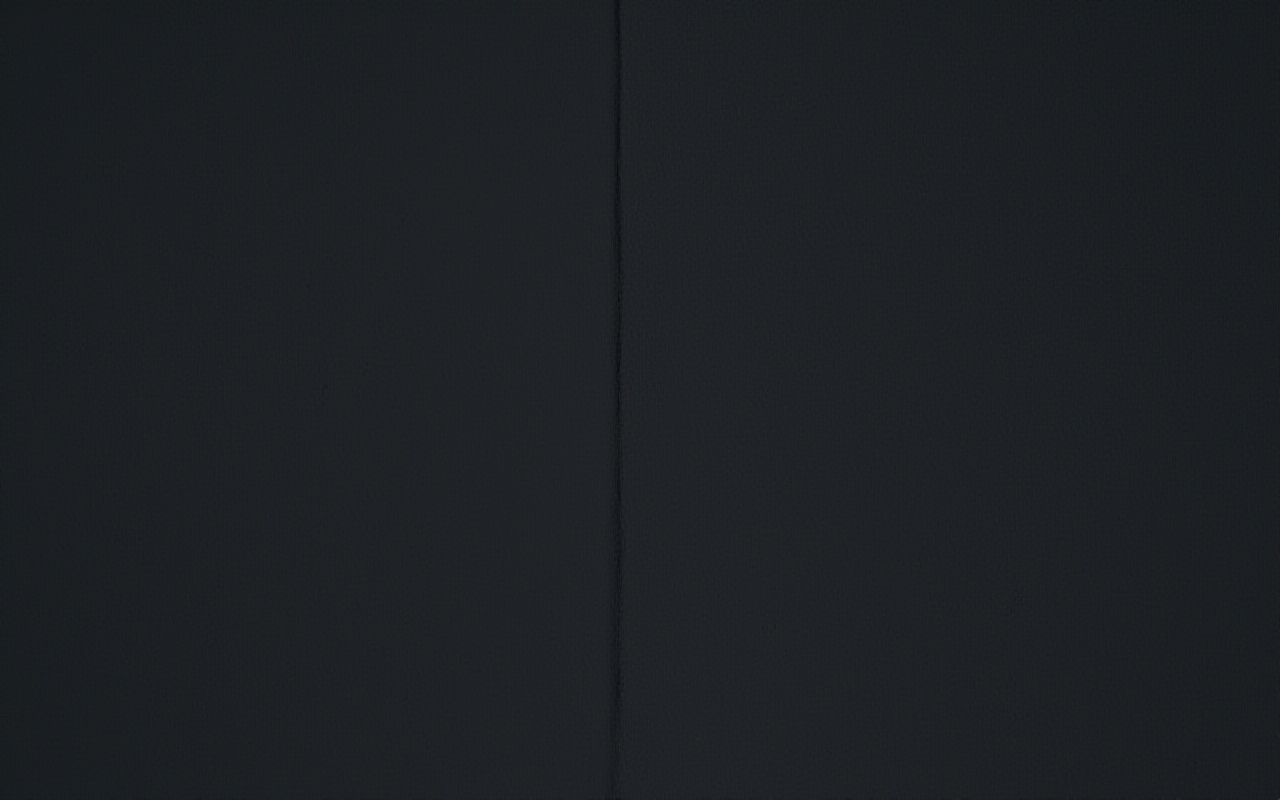
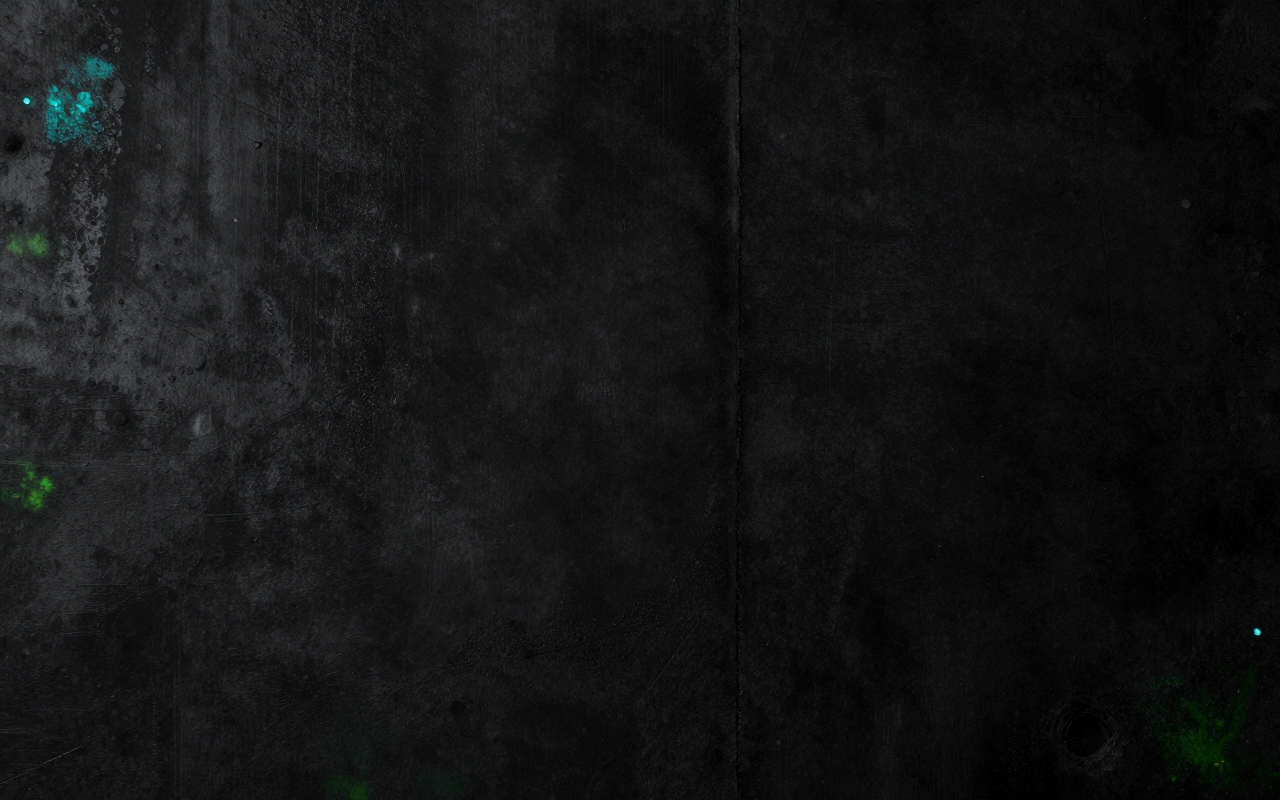
Improve theme material assets

diff --git a/Sources/Models.swift b/Sources/Models.swift
@@ -55,7 +55,7 @@ struct SeedStation: Decodable {
 
 // App-Version an einer Stelle. Wird auch in der Info.plist gespiegelt.
 enum AppInfo {
-    static let version = "1.7.31"
+    static let version = "1.7.32"
 }
 
 /// Verschiebt einmalig den alten Daten-Ordner „MacRadio" auf den neuen Namen „MuckeBaby"

diff --git a/CHANGELOG.md b/CHANGELOG.md
@@ -5,6 +5,10 @@ The format is based on [Keep a Changelog](https://keepachangelog.com/).
 
 ## [Unreleased]
 
+## [1.7.32] - 2026-06-10
+### Changed
+- Refined bitmap material assets for the Acid Rave, Retro, Fanzine, GuitarAmp, and Danish themes.
+
 ## [1.7.31] - 2026-06-09
 ### Fixed
 - Adaptive header bar: title no longer overlaps the traffic-light buttons at narrow window widths.
